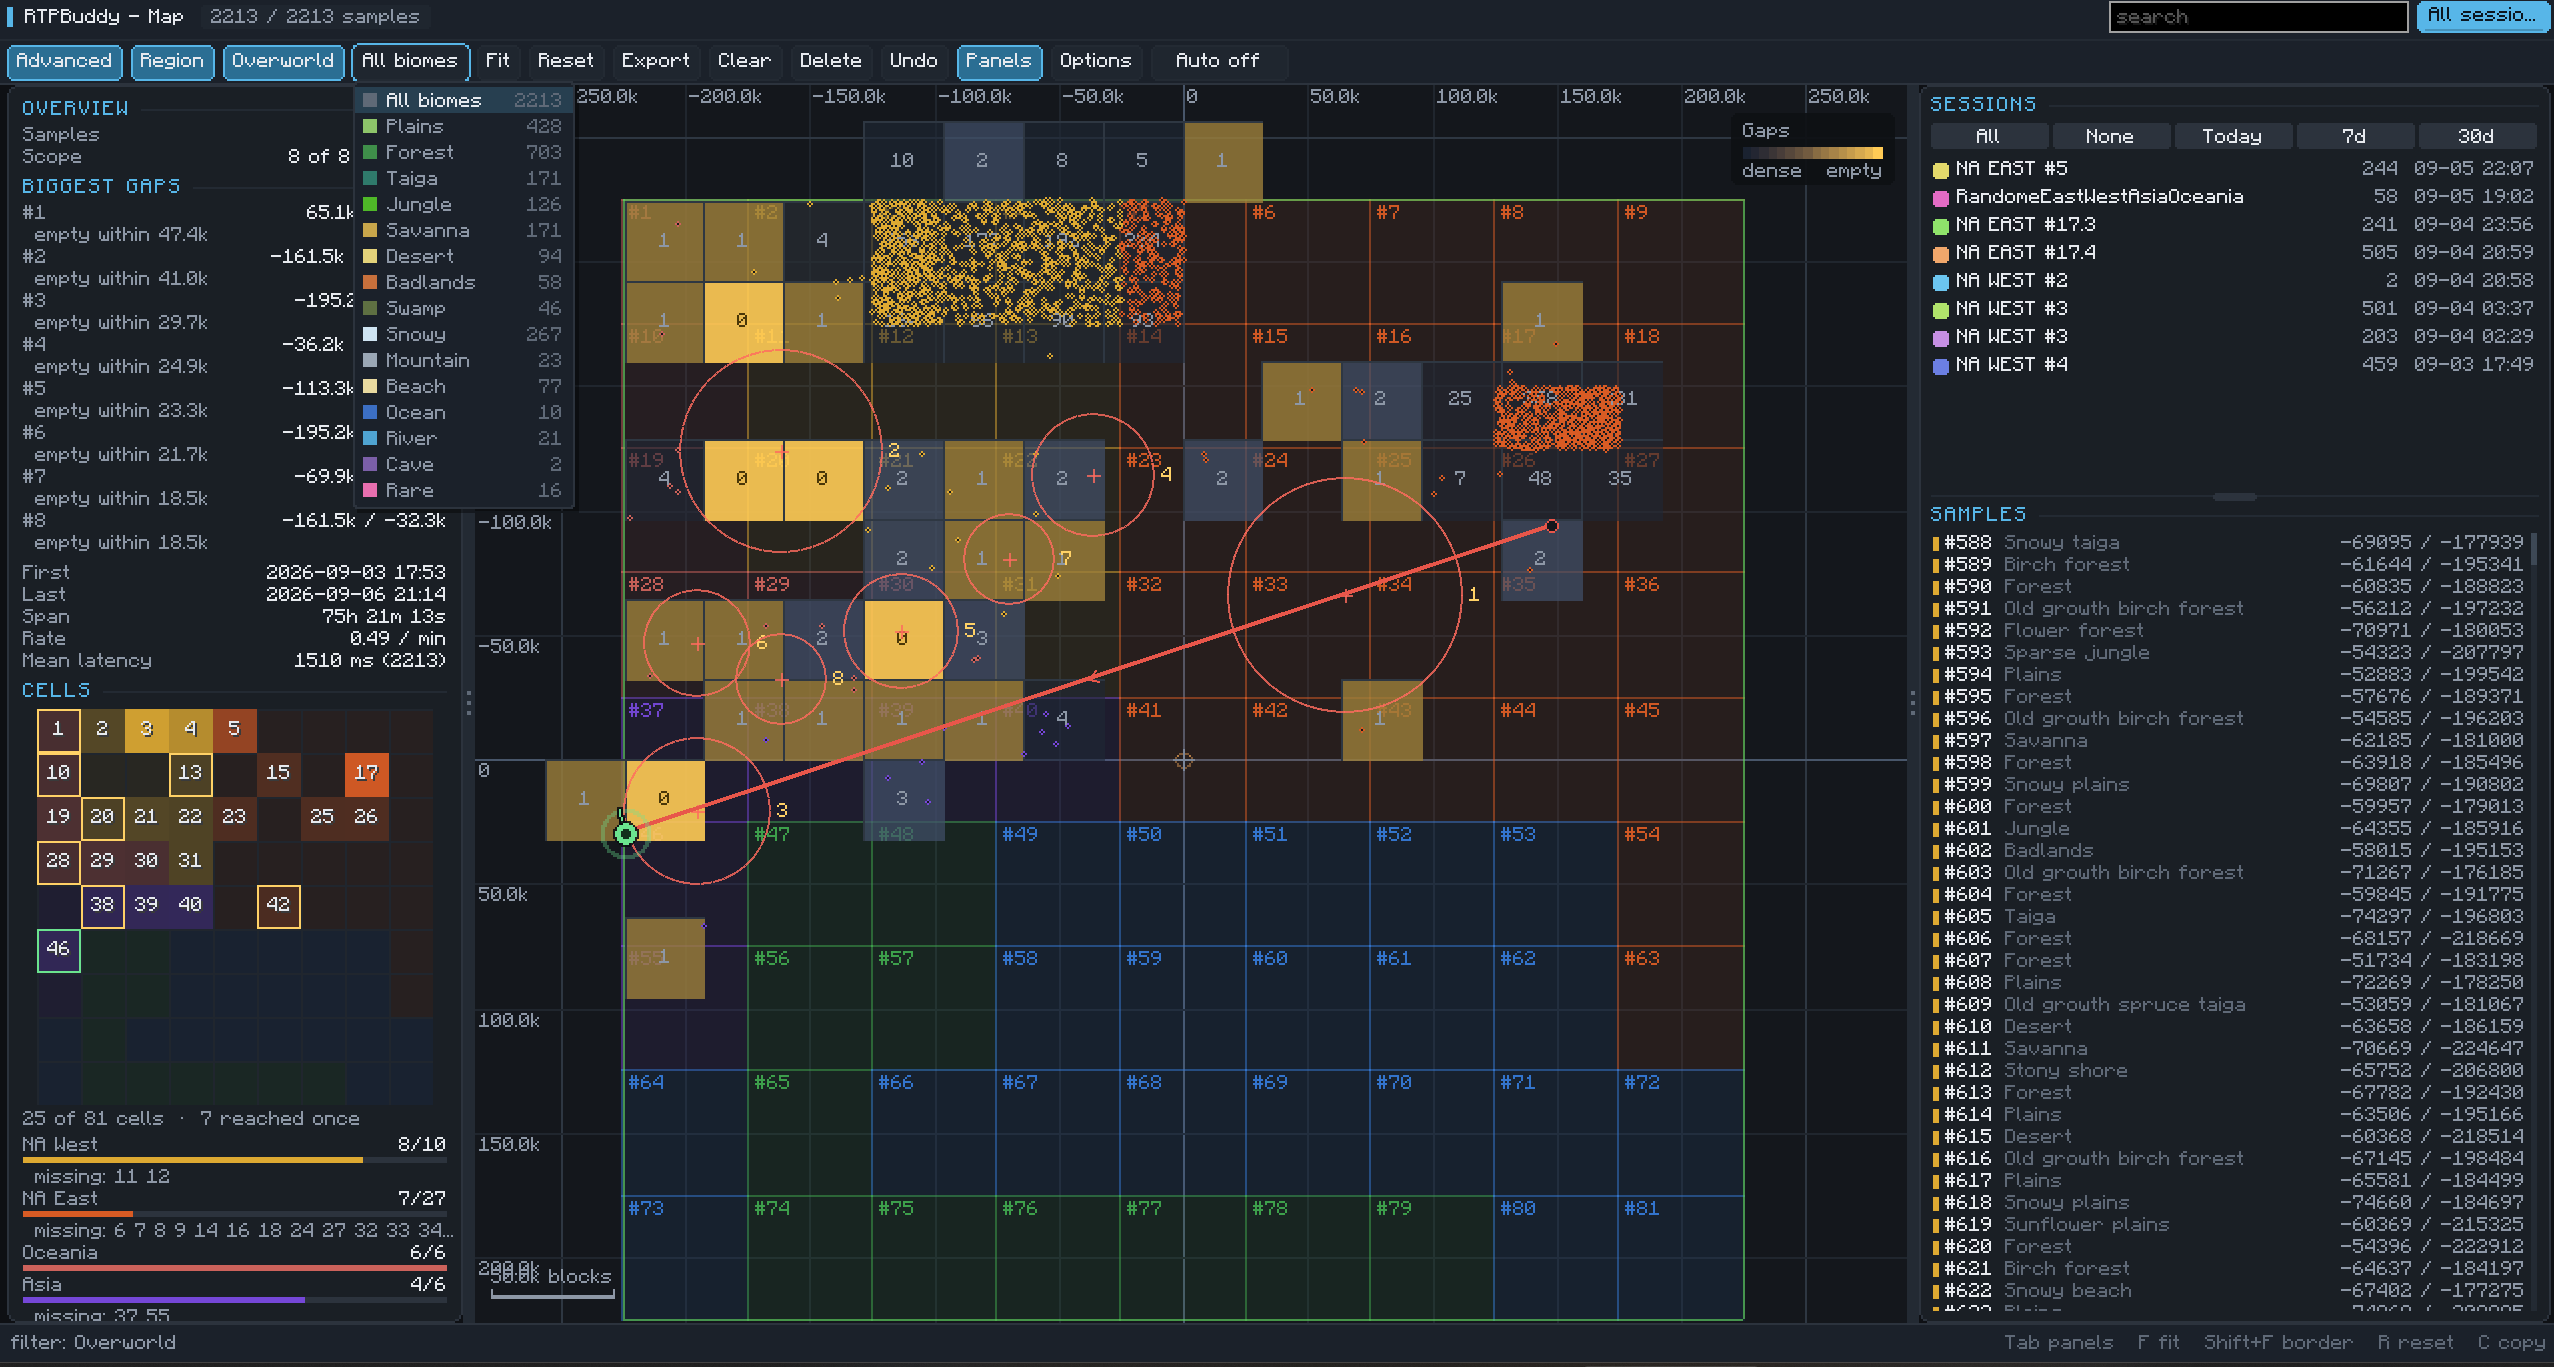
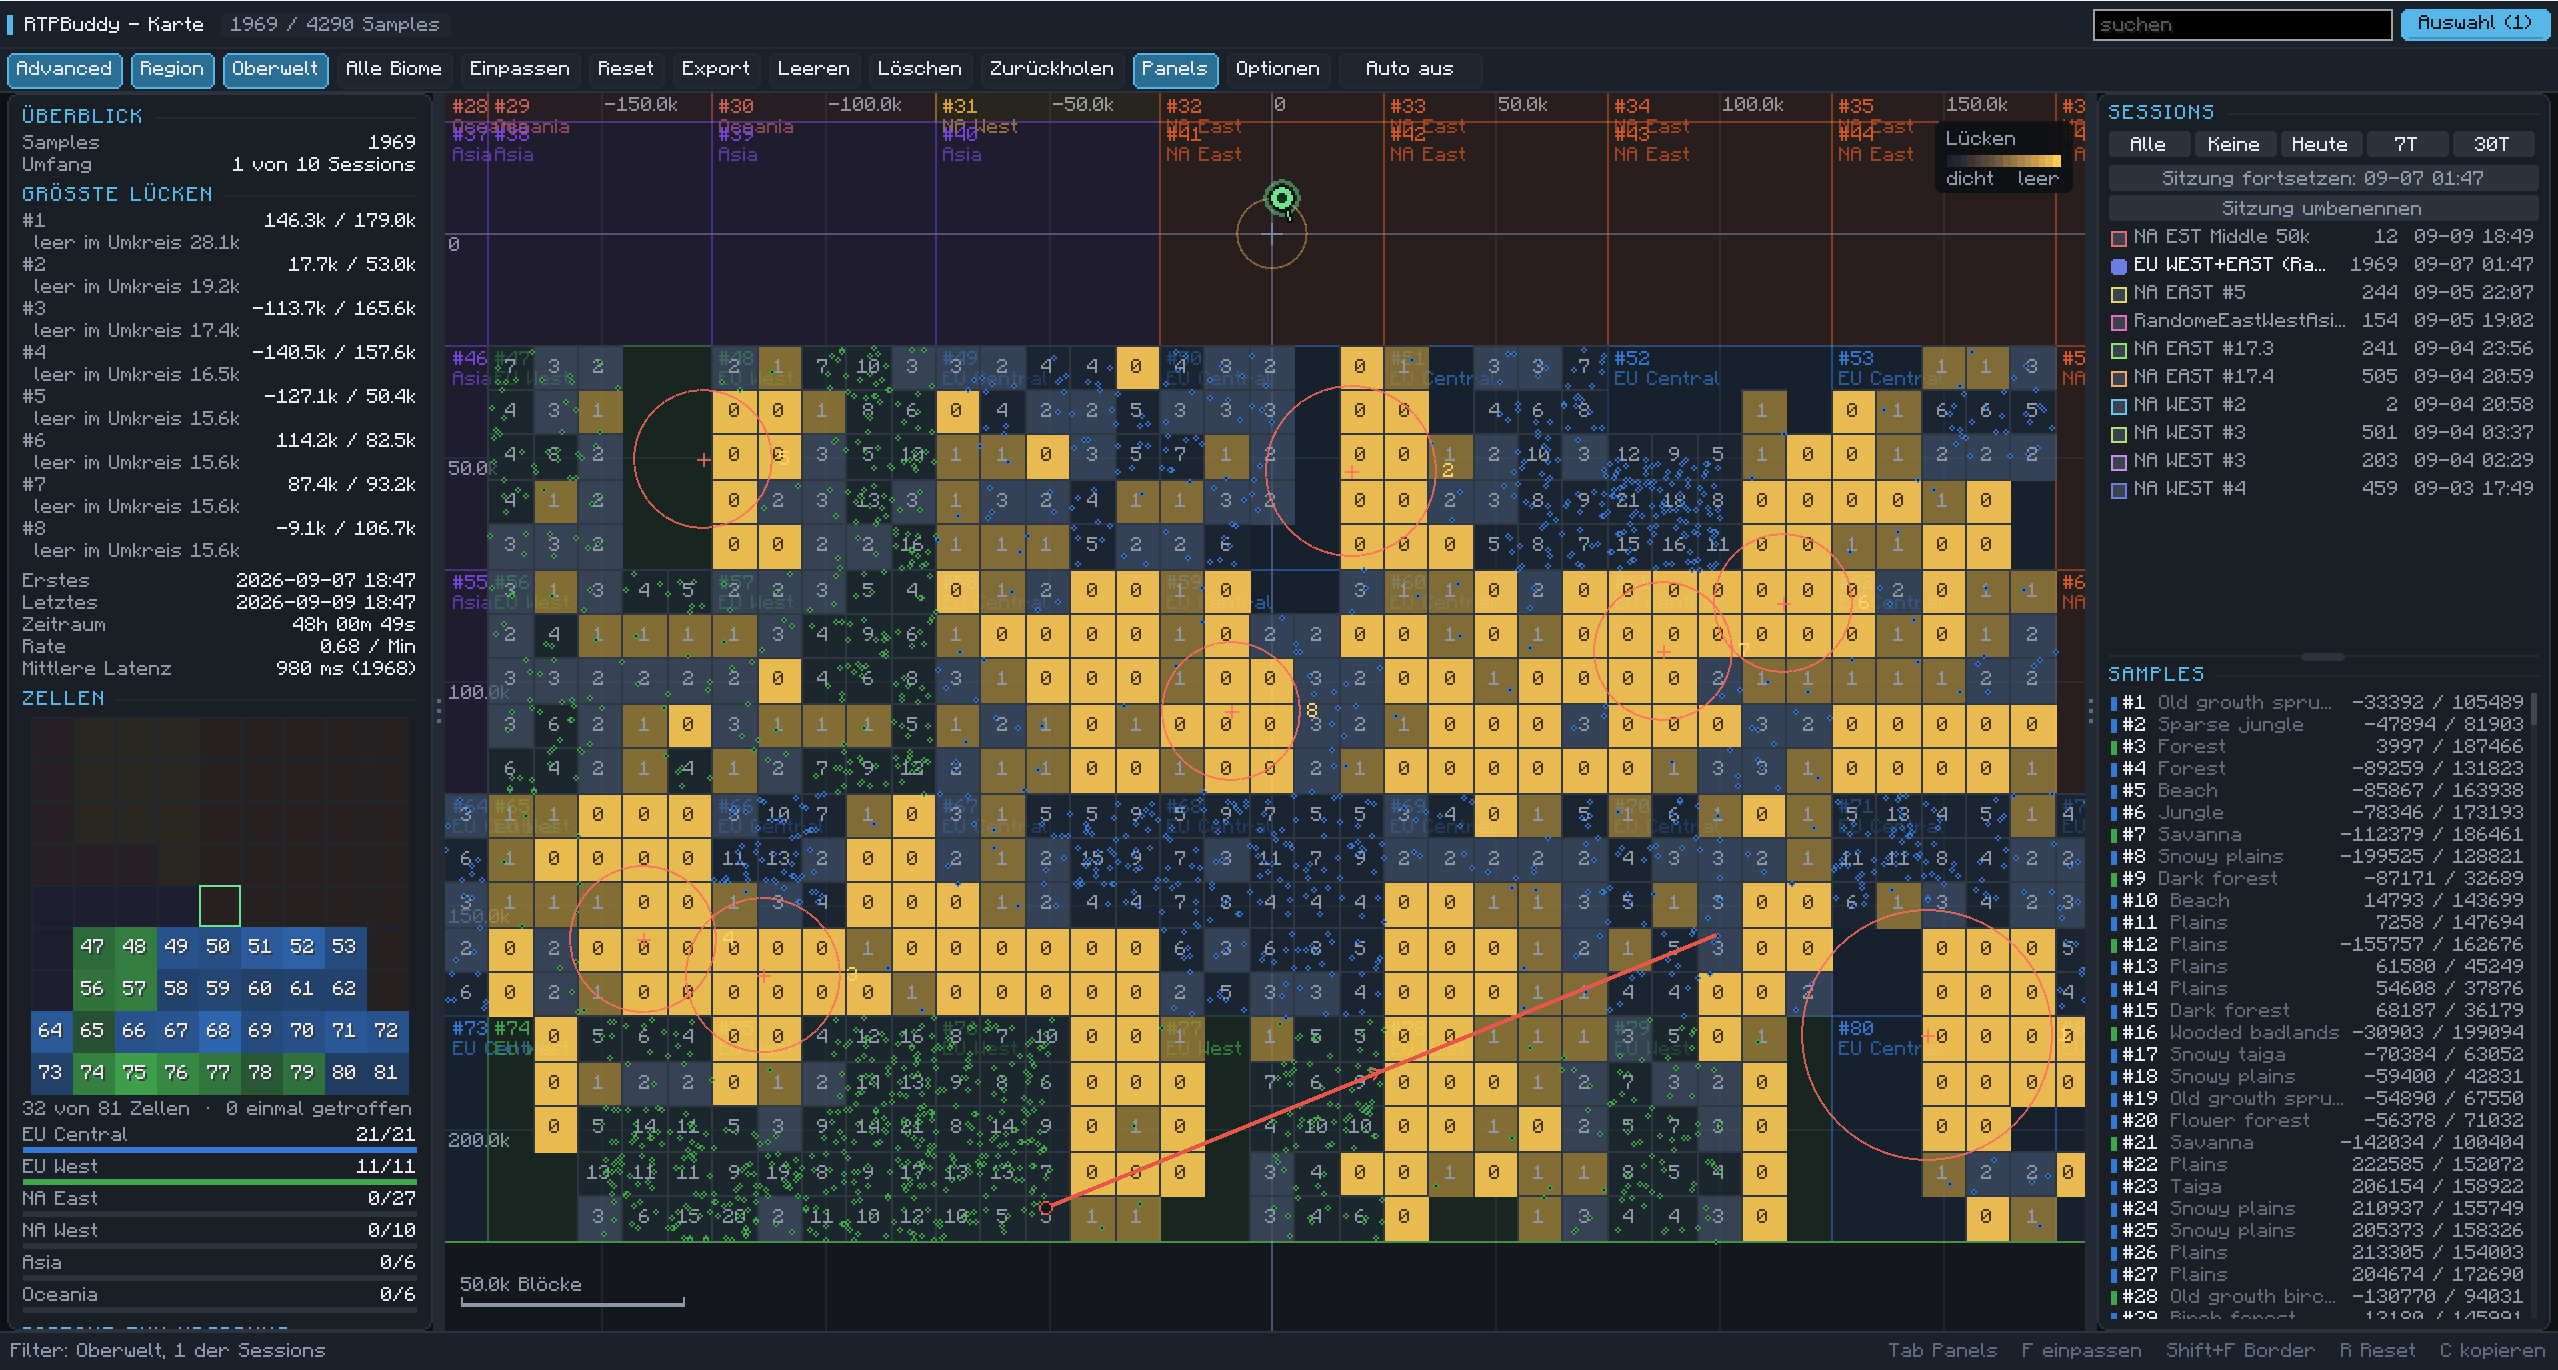
Replace the README hero with a 1.6.19 raster
The old shot was taken before the tiles were fitted to the region cells, so
the picture at the top of the README showed squares lying across region lines
and hanging past the world border - the exact thing the text below it now says
cannot happen. The caption followed the image: it claimed every landing ever
recorded and an open biome menu, and the new shot is one sitting with no menu
open, so it says that instead and names what the squares are worth.

diff --git a/README.md b/README.md
@@ -21,9 +21,11 @@ server; on DonutSMP it is. Check your server's rules.
 
 ![The all-sessions map](docs/img/map-all-sessions.png)
 
-*Every landing ever recorded, over DonutSMP's grid of 81 server cells. The
-board bottom left tracks which cells have been reached, the red leg points at
-the newest landing, and the open menu filters by biome.*
+*One sitting's landings over DonutSMP's grid of 81 server cells. Past the 5k
+scale every square carries its own landing count, and each one sits inside a
+single cell rather than across the line between two. The board bottom left
+tracks which cells have been reached, and the red leg points at the newest
+landing.*
 
 ## Contents
 
